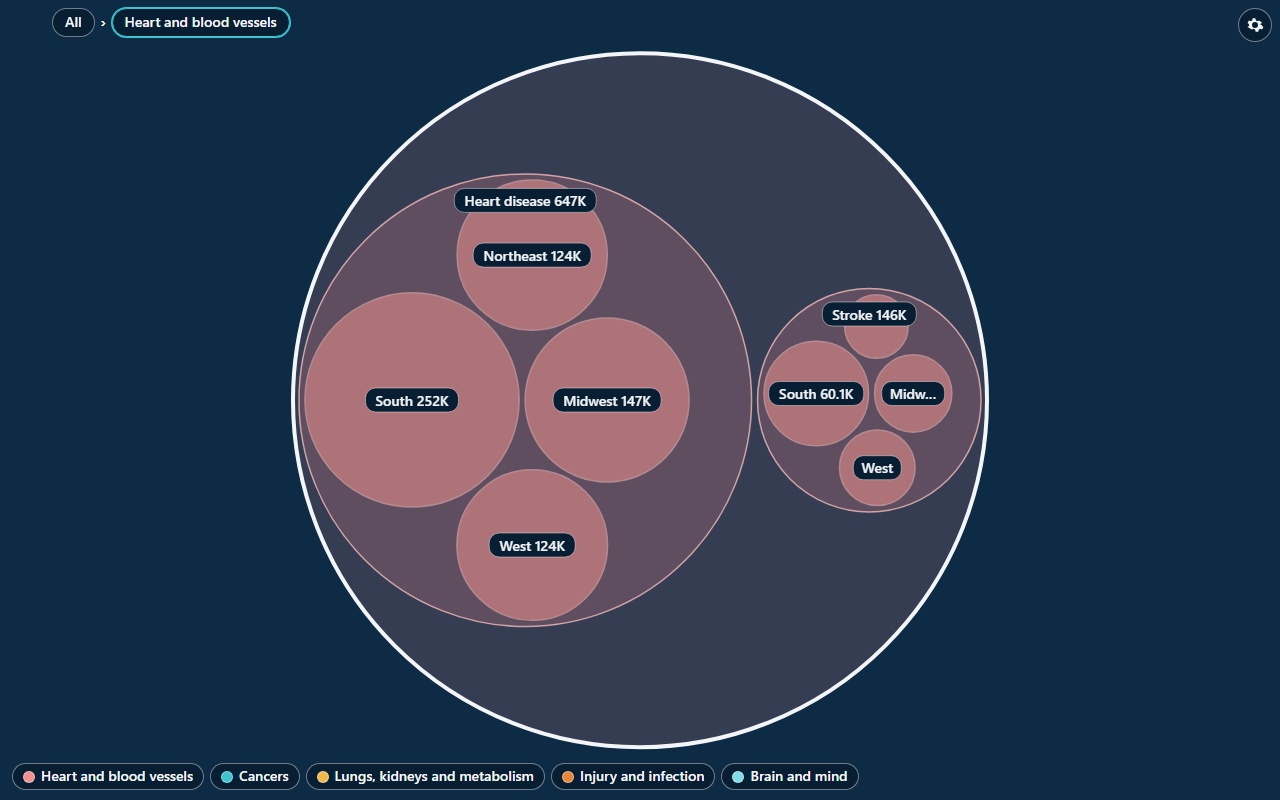
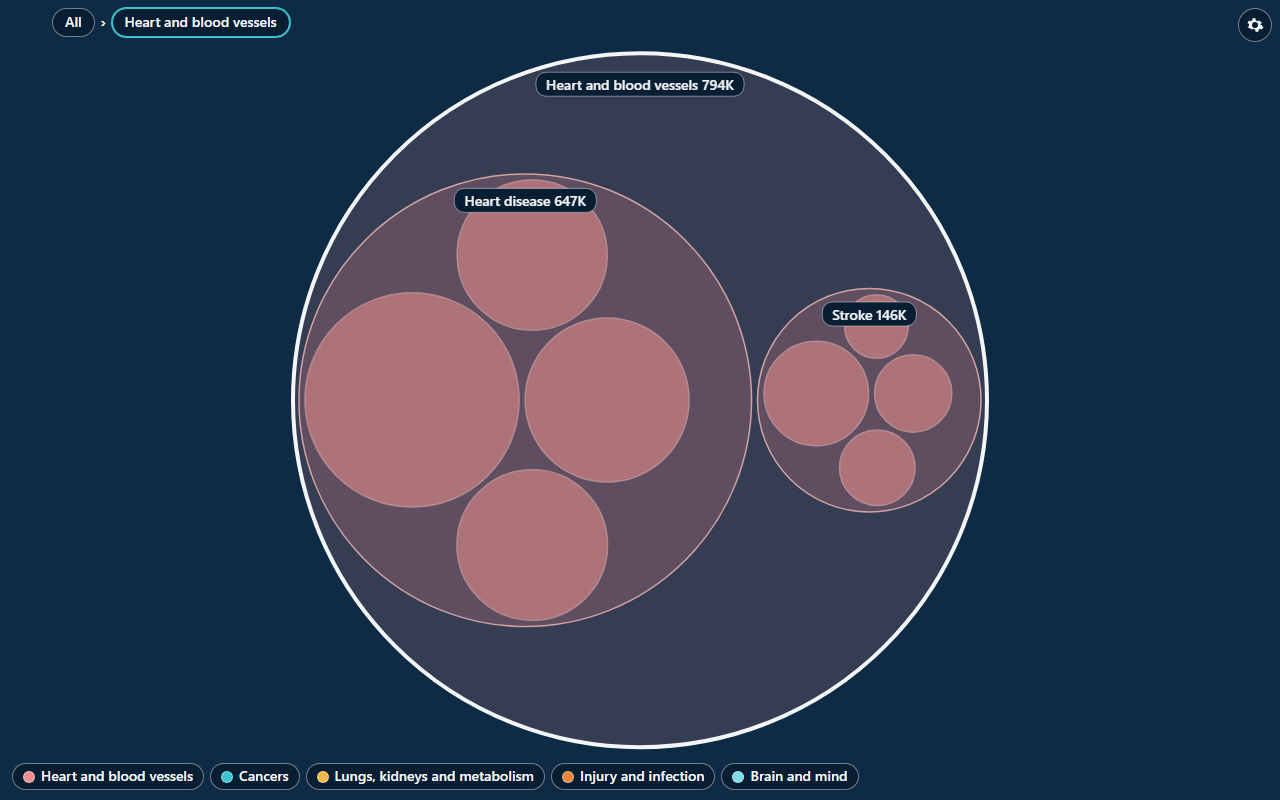
Reef: whole labels only, fold single-child chains, label focus level only
Claude-Session: https://claude.ai/code/session_01LgKR4C3YaqcJ7j8irnNHQ8

diff --git a/tableau-reef/test/run.js b/tableau-reef/test/run.js
@@ -90,6 +90,27 @@ const emptyTree = layout.buildTree([], 2, 'size'); eq('no rows gives a root with
 const cmix = layout.buildTree([{ path: ['A'], value: 3, color: 10 }, { path: ['A'], value: 1, color: 20 }], 1, 'size').root.leaves()[0].data;
 near('numeric colour is a size-weighted mean on merge', cmix.cs / cmix.cw, 12.5);
 
+/* ------------------------------------------------- single-child chains */
+function singles(root) { return root.descendants().filter((n) => n.parent && n.children && n.children.length === 1).map((n) => n.data.name); }
+function groupsOf(root) { return root.descendants().filter((n) => n.parent && n.children).length; }
+const cancers = t3.root.descendants().filter((n) => n.data.name === 'Cancers');
+eq('real data: Cancers has one child in the source, so it folds into ONE circle', cancers.length, 1);
+eq('real data: the folded Cancers circle holds the 4 regions directly', cancers[0].children.map((c) => c.data.name).sort(), ['Midwest', 'Northeast', 'South', 'West']);
+ok('real data: no separate Cancer circle remains', !t3.root.descendants().some((n) => n.data.name === 'Cancer'));
+eq('real data: a folded circle keeps its full path for selection', cancers[0].children[0].data.pathNames.length, 3);
+eq('real data: folding keeps the total', Math.round(t3.root.value), Math.round(sumReal));
+eq('real data: no group has exactly one child', singles(t3.root), []);
+const chain = layout.buildTree([{ path: ['Heart', 'Heart disease', 'Valve'], value: 4 }, { path: ['Heart', 'Heart disease', 'Valve'], value: 2 }, { path: ['Lung', 'Asthma', 'Child'], value: 3 }, { path: ['Lung', 'Asthma', 'Adult'], value: 3 }, { path: ['Gut', 'Colon', 'Polyp'], value: 1 }, { path: ['Gut', 'Colon', 'Polyp'], value: 2 }], 3, 'name');
+eq('a 3-step chain folds into one leaf named Parent: Child', chain.root.leaves().filter((l) => l.data.name === 'Heart: Valve').length, 1);
+eq('chain leaves keep every folded name', chain.root.leaves().map((l) => l.data.name).sort(), ['Adult', 'Child', 'Gut: Colon: Polyp', 'Heart: Valve']);
+eq('Lung with one child Asthma folds to the circle Lung: Asthma holding Child and Adult', chain.root.descendants().filter((n) => n.data.name === 'Lung: Asthma' && n.children && n.children.length === 2).length, 1);
+eq('chain data: no group has exactly one child', singles(chain.root), []);
+eq('a plural parent folds to the parent name', layout.buildTree([{ path: ['Cancers', 'Cancer'], value: 1 }, { path: ['Other', 'x'], value: 1 }, { path: ['Other', 'y'], value: 1 }], 2, 'name').root.leaves().map((l) => l.data.name).sort(), ['Cancers', 'x', 'y']);
+eq('a one-level tree keeps its leaves (root is never folded)', layout.buildTree([{ path: ['Solo'], value: 1 }], 1, 'name').root.children.map((c) => c.data.name), ['Solo']);
+eq('a blank only child folds into the parent name', layout.buildTree([{ path: ['Beta', null], value: 1 }, { path: ['Other', 'x'], value: 1 }, { path: ['Other', 'y'], value: 1 }], 2, 'name').root.leaves().map((l) => l.data.name).sort(), ['Beta', 'x', 'y']);
+ok('big random tree: no single-child group (' + groupsOf(layout.buildTree(bigRowsEarly(), 3, 'size').root) + ' groups checked)', singles(layout.buildTree(bigRowsEarly(), 3, 'size').root).length === 0);
+function bigRowsEarly() { const r = (function () { let q = 777; return () => (q = (q * 1664525 + 1013904223) % 4294967296) / 4294967296; })(); return Array.from({ length: 600 }, (_, i) => ({ path: ['G' + (i % 9), 'S' + (i % 41), 'L' + i], value: 1 + r() * 9, tuple: i })); }
+
 /* ------------------------------------------------------------------ pack */
 function checkPack(name, root) {
   let worst = 0, pairs = 0, parents = 0, leafRatio = [];
@@ -154,6 +175,11 @@ let chipTotal = 0;
 ok('label planner placed chips at all (not vacuously empty)', chipTotal > 20, String(chipTotal));
 const tinyOnly = layout.planLabels([{ id: 'x', group: false, x: 50, y: 50, r: 6, texts: ['A very long name'], prio: 0 }], { x0: 0, y0: 0, x1: 100, y1: 100 }, (t) => t.length * 8, 14, 8, 5);
 eq('a circle too small for its label gets no chip', tinyOnly.length, 0);
+
+const noStub = planFor(root3, [900, 560], 14).chips.every((c) => c.text.indexOf('…') < 0 && c.text.indexOf('...') < 0);
+ok('planner output never contains an ellipsis', noStub);
+const src = fs.readFileSync(path.join(ROOT, 'src/js/render.js'), 'utf8');
+ok('renderer builds no truncated label text', src.indexOf('…') < 0 && !/slice\(0, -1\)/.test(src));
 
 /* --------------------------------------------------------------- report */
 const MIN_CHECKS = 80;

diff --git a/tableau-reef/src/js/render.js b/tableau-reef/src/js/render.js
@@ -80,11 +80,16 @@
     this.nodes = this.root.descendants();
     this.treeKey = key;
     this._indexColors(model);
-    var f = this.root, i;
-    for (i = 0; i < prevPath.length; i++) {
-      var nx = f.children && f.children.filter(function (c) { return c.data.name === prevPath[i]; })[0];
-      if (!nx) break; f = nx;
-    }
+    var f = this.root, nx;
+    do {   // a folded circle owns several path steps, so match each child by its whole path prefix
+      var have = f.data.pathNames.length;
+      nx = f.children && f.children.filter(function (c) {
+        var pn = c.data.pathNames; if (pn.length > prevPath.length) return false;
+        for (var j = 0; j < pn.length; j++) if (pn[j] !== prevPath[j]) return false;
+        return pn.length > have;
+      })[0];
+      if (nx) f = nx;
+    } while (nx);
     this.focus = f; this.selected = null; this.hovered = null; this.anim = null;
     // circle elements
     this.gCircles.textContent = '';
@@ -121,7 +126,7 @@
   P._colorOf = function (n, s) {
     var pal = C.palette(s.palette);
     if (s.colorMode === 'single') return s.singleColor;
-    if (s.colorMode === 'depth') return pal[Math.max(0, n.depth - 1) % pal.length];
+    if (s.colorMode === 'depth') return pal[Math.max(0, n.data.depthIdx) % pal.length];
     if (s.colorMode === 'field') {
       if (n.catKey !== undefined && this.catIndex[n.catKey] !== undefined) return pal[this.catIndex[n.catKey] % pal.length];
       if (n.numVal !== undefined && this.numRange) {
@@ -182,22 +187,19 @@
     if (!s.labels || this.anim) return;
     var v = this.view, fs = Math.max(14, s.fontSize), cands = [];
     var padX = 8, padY = 5, chipH = fs + padY * 2;
-    f.descendants().forEach(function (n) {
-      if (n === f || n.shown === false) return;
+    /* Only the focus circle and its direct children get a chip. Deeper circles stay
+     * unlabelled until you zoom to them, so a group chip never sits on a child chip. */
+    [f].concat(f.children || []).forEach(function (n) {
+      if (!n.parent || n.shown === false) return;
       var group = !!n.children;
       if (group && !s.groupLabels) return;
       var x = v.ox + n.x * v.k, y = v.oy + n.y * v.k, r = n.r * v.k;
       if (r < chipH * 0.62) return;
       if (x + r < 0 || x - r > self.w || y + r < 0 || y - r > self.h) return;
       var name = n.data.name, val = C.fmt(n.value, s.valueFormat), texts = [];
-      var maxW = Math.max(10, 2 * Math.sqrt(Math.max(0, (r - 3) * (r - 3) - (chipH / 2) * (chipH / 2))) - padX * 2);
+      /* A label shows in full or not at all: no truncated stubs. The tooltip and zoom reveal hidden names. */
       if (s.showValues) texts.push(name + '  ' + val);
       texts.push(name);
-      var t = name;
-      if (self._measure(t) > maxW) {
-        while (t.length > 1 && self._measure(t + '…') > maxW) t = t.slice(0, -1);
-        if (t.length > 1 || self._measure(t + '…') <= maxW) texts.push(t.replace(/\s+$/, '') + '…');
-      }
       cands.push({ id: n.idx, group: group, x: x, y: y, r: r, texts: texts, prio: (n.parent === f ? 0 : 1) + (group ? 0 : 0.5) });
     });
     var placed = L.planLabels(cands, { x0: 2, y0: 2, x1: this.w - 2, y1: this.h - 2 }, function (t) { return self._measure(t); }, fs, padX, padY);

diff --git a/tableau-reef/src/js/layout.js b/tableau-reef/src/js/layout.js
@@ -14,6 +14,14 @@
 
   function nameOf(v) { return v === null || v === undefined || v === '' ? '(blank)' : String(v); }
 
+  /* Same word, ignoring case, spacing and a plural s: keep the parent's name. */
+  function foldName(parent, child) {
+    var stem = function (t) { return String(t).toLowerCase().replace(/[^a-z0-9]+/g, '').replace(/(es|s)$/, ''); };
+    var a = stem(parent), b = stem(child);
+    if (child === '(blank)' || !b || a === b || a.indexOf(b) === 0 || b.indexOf(a) === 0) return parent;
+    return parent + ': ' + child;
+  }
+
   /* rows: [{ path: [l1, l2, l3], value, color, tuple }]. Returns { root, dropped }. */
   function buildTree(rows, levels, sortMode) {
     var top = { name: 'All', depthIdx: -1, kids: new Map(), pathNames: [] };
@@ -40,13 +48,25 @@
         node.cat[ck] = (node.cat[ck] || 0) + v;
       }
     });
+    /* A group with exactly one child draws a ring hugging its only circle. Fold the two
+     * into one circle (the child's children and path), named for the parent, or
+     * "Parent: Child" when the child's name adds something. The root is never folded. */
+    function collapse(d, isRoot) {
+      while (!isRoot && d.children && d.children.length === 1) {
+        var kid = d.children[0];
+        kid.name = foldName(d.name, kid.name);
+        d = kid;
+      }
+      if (d.children) d.children = d.children.map(function (c) { return collapse(c, false); });
+      return d;
+    }
     function plain(n) {
       var o = { name: n.name, pathNames: n.pathNames, depthIdx: n.depthIdx };
       if (n.kids.size) o.children = Array.from(n.kids.values()).map(plain);
       else { o.leafValue = n.leafValue || 0; o.tuples = n.tuples || []; o.cw = n.cw; o.cs = n.cs; o.cat = n.cat; }
       return o;
     }
-    var data = plain(top);
+    var data = collapse(plain(top), true);
     var root = d3.hierarchy(data, function (d) { return d.children; }).sum(function (d) { return d.children ? 0 : d.leafValue; });
     if (sortMode === 'size') root.sort(function (a, b) { return b.value - a.value || (a.data.name < b.data.name ? -1 : 1); });
     else if (sortMode === 'name') root.sort(function (a, b) { return a.data.name < b.data.name ? -1 : (a.data.name > b.data.name ? 1 : 0); });

diff --git a/tableau-reef/test/render_test.py b/tableau-reef/test/render_test.py
@@ -43,7 +43,9 @@ def audit(page, tag):
     check(tag + ': circles drawn (non-empty)', a['shown'] >= 5, a['shown'])
     check(tag + ': no horizontal scroll', not a['hscroll'])
     check(tag + ': no slider inputs', a['ranges'] == 0)
-    check(tag + ': chip labels present', len(a['chips']) >= 1, len(a['chips']))
+    wide = page.viewport_size['width'] >= 500   # a 300 px stage has no circle big enough for a whole name, so it may show none
+    check(tag + ': chip labels present', len(a['chips']) >= 1 or not wide, len(a['chips']))
+    p = pills(page, tag)
     check(tag + ': chip labels never overlap (%d chips)' % len(a['chips']), a['overlaps'] == 0, a['overlaps'])
     count(len(a['chips']))
     check(tag + ': breadcrumb, legend and gear never overlap (%d boxes)' % a['htmlCount'], a['htmlOverlaps'] == 0, a['htmlOverlaps'])
@@ -57,6 +59,30 @@ def audit(page, tag):
     check(tag + ': first font in every stack is sans-serif', not fams and all('sans-serif' in t['family'].lower() for t in a['text']), fams[:2])
     count(len(a['text']))
     return a
+
+PILLS = r"""() => {
+  const r = RF.app.state.renderer, f = r.focus, out = [];
+  document.querySelectorAll('.rf-chip').forEach(g => {
+    const n = r.nodes[+g.getAttribute('data-i')], rc = g.querySelector('rect').getBoundingClientRect();
+    out.push({ text: g.querySelector('text').textContent, l: rc.left, r: rc.right, t: rc.top, b: rc.bottom,
+               level: n === f ? 'focus' : (n.parent === f ? 'child' : 'deeper'), groupKids: n.children ? n.children.length : 0 });
+  });
+  const groups = r.nodes.filter(n => n.parent && n.children);
+  return { pills: out, oneKid: groups.filter(n => n.children.length === 1).map(n => n.data.name), crumbs: [...document.querySelectorAll('.rf-crumb')].map(e => e.textContent) };
+}"""
+def pills(page, tag):
+    """The three label rules, measured on every visible pill: whole text or none, only the focus level
+    and its direct children carry a pill, and no pill overlaps any other pill. Returns the pill count."""
+    d = page.evaluate(PILLS); ps = d['pills']
+    stubs = [q['text'] for q in ps if '…' in q['text'] or '...' in q['text']]
+    check(tag + ': no pill carries an ellipsis (%d pills)' % len(ps), not stubs, stubs[:3])
+    deeper = [q['text'] for q in ps if q['level'] == 'deeper']
+    check(tag + ': only the focus circle and its direct children are labelled', not deeper, deeper[:3])
+    lap = sum(1 for i in range(len(ps)) for j in range(i + 1, len(ps)) if ps[i]['l'] < ps[j]['r'] and ps[i]['r'] > ps[j]['l'] and ps[i]['t'] < ps[j]['b'] and ps[i]['b'] > ps[j]['t'])
+    check(tag + ': zero pill-on-pill overlaps over all %d pairs' % (len(ps) * (len(ps) - 1) // 2), lap == 0, lap)
+    check(tag + ': no group circle has exactly one child (no hugging ring)', not d['oneKid'], d['oneKid'])
+    count(len(ps))
+    return len(ps)
 
 def open_page(browser, w, h, query, scheme='light'):
     ctx = browser.new_context(viewport={'width': w, 'height': h}, color_scheme=scheme, permissions=['clipboard-read', 'clipboard-write'])
@@ -257,6 +283,26 @@ with sync_playwright() as p:
     page.evaluate("() => { const r = RF.app.state.renderer; r.zoomTo(r.root.children[0]); }")
     check('reduced motion: zoom completes in the same frame', page.evaluate("() => !document.querySelector('#rf-chart').classList.contains('rf-zooming') && RF.app.state.renderer.focus.depth === 1"))
     ctx.close()
+
+    # ---- 9. label rules at the root and after zooming into EACH group, 3 sizes x light and dark
+    for (w, h) in SIZES:
+        for theme, bg in THEMES.items():
+            ctx, page, errs = open_page(browser, w, h, 'fixture=causes&bg=' + bg, theme)
+            tag = 'sweep %dx%d %s' % (w, h, theme)
+            total = pills(page, tag + ' root')
+            names = page.evaluate("() => RF.app.state.renderer.root.children.map(n => n.data.name)")
+            check(tag + ': five top-level groups to zoom into', len(names) == 5, names)
+            check(tag + ': collapsed chain is one circle (Cancers, no Cancer ring)', page.evaluate("() => { const n = RF.app.state.renderer.nodes.map(x => x.data.name); return n.indexOf('Cancers') >= 0 && n.indexOf('Cancer') < 0; }"))
+            for i, nm in enumerate(names):
+                page.evaluate("(i) => { const r = RF.app.state.renderer; r.zoomTo(r.root.children[i]); }", i)
+                page.wait_for_timeout(100); settle(page)
+                total += pills(page, tag + ' zoomed into ' + nm)
+                if nm == 'Cancers':
+                    d = page.evaluate(PILLS)
+                    check(tag + ': zooming into the folded group shows one crumb step: ' + str(d['crumbs']), d['crumbs'] == ['All', 'Cancers'], d['crumbs'])
+                page.evaluate("() => { const r = RF.app.state.renderer; r.zoomTo(r.root); }"); page.wait_for_timeout(100); settle(page)
+            check(tag + ': sweep examined pills (%d)' % total, total >= (10 if w >= 900 else 0), total)
+            check(tag + ': 0 console errors', not errs, errs[:2]); ctx.close()
 
     # ---- 8. dark worksheet + preview shots
     if SHOTS:

diff --git a/tableau-reef/tools/sabotage.py b/tableau-reef/tools/sabotage.py
@@ -30,6 +30,19 @@ SABOTAGES = [
      "var t = (now - t0) / dur, w0 = performance.now();",
      "var t = (now - t0) / dur, w0 = performance.now(); while (performance.now() - w0 < 45) {}",
      ['python', 'test/render_test.py']),
+    ('labels: a truncated stub is offered again when the whole name does not fit', 'src/js/render.js',
+     "texts.push(name);",
+     "texts.push(name); texts.push(name.slice(0, 4) + '...');",
+     ['python', 'test/render_test.py']),
+    ('single-child chains: folding switched off (unit gate)', 'src/js/layout.js',
+     "var data = collapse(plain(top), true);", "var data = plain(top);",
+     ['node', 'test/run.js']),
+    ('single-child chains: folding switched off (render gate)', 'src/js/layout.js',
+     "var data = collapse(plain(top), true);", "var data = plain(top);",
+     ['python', 'test/render_test.py']),
+    ('crowding: every descendant labelled again, not just the focus level', 'src/js/render.js',
+     "[f].concat(f.children || []).forEach(function (n) {", "f.descendants().forEach(function (n) {",
+     ['python', 'test/render_test.py']),
     ('stand-in: encoding id renamed so the owner mapping no longer matches', 'src/js/app.js',
      "var LEVEL_IDS = ['level1', 'level2', 'level3'];", "var LEVEL_IDS = ['lvl1', 'lvl2', 'lvl3'];",
      ['python', 'test/standin_test.py']),

diff --git a/tableau-reef/README.md b/tableau-reef/README.md
@@ -22,7 +22,10 @@ circle-packing extension when this was checked on 11/22/2026.
   labels fade back in when the move settles. Escape, the breadcrumb, or a click
   on the surrounding circle climbs back out. Reduced-motion users get an
   instant zoom.
-- **Labels that never collide**: every label is a solid chip that sits fully
+- **Labels that never collide**: each label shows in full or not at all (no
+  truncated stubs, the tooltip and zoom reveal hidden names), and only the focus
+  level and its direct children carry one. A group with a single child folds
+  into one circle. Every label is a solid chip that sits fully
   inside its own circle, so the text is 14 px or larger and 7:1 against its
   chip in light and dark, whatever colour the circle behind it is.
 - **28 settings** in 6 groups (data, colours, layout, labels, zoom, appearance)
